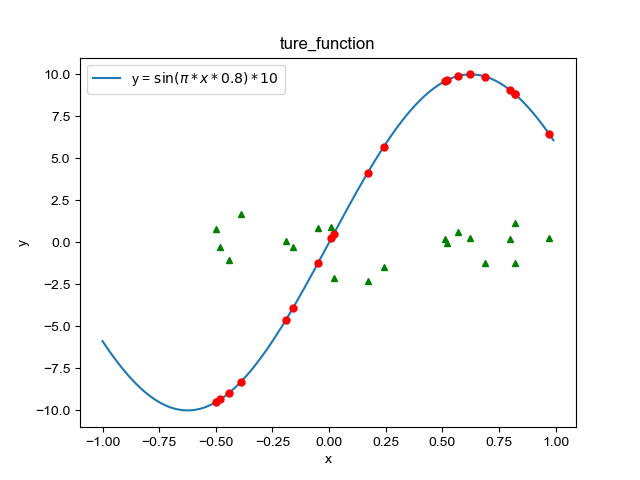
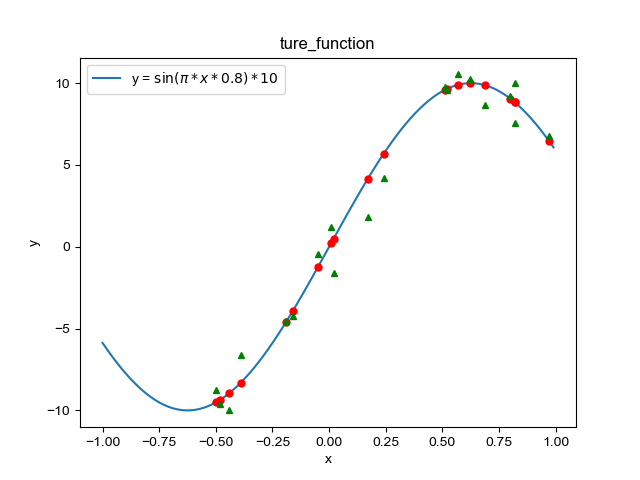
fix ex1.3

diff --git a/dataset1.py b/dataset1.py
@@ -55,15 +55,16 @@ for i in range(len(n)):
 
 noize = [round(random.normalvariate(mu=0.0, sigma=2.0)/2, 2) for _ in range(20)]
 
+noize_data = df["真値"] + noize
 df["観測値"] = np.array(noize).T
 
 for i in range(len(noize)):
-    plt.plot(n[i], noize[i], marker="^", markersize=5, color="green")
-#plt.savefig(path + "ex1.3.png")
-#plt.show()
+    plt.plot(n[i], noize_data[i], marker="^", markersize=5, color="green")
+plt.savefig(path + "ex1.3.png")
+plt.show()
 
 #ex1.4
 #df.to_csv(path + "dataset1.tsv", sep="\t", index=False)
 
 #ex1.5
-dataset = pd.read_csv(path + "dataset1.tsv", sep="\t")
+#dataset = pd.read_csv(path + "dataset1.tsv", sep="\t")
